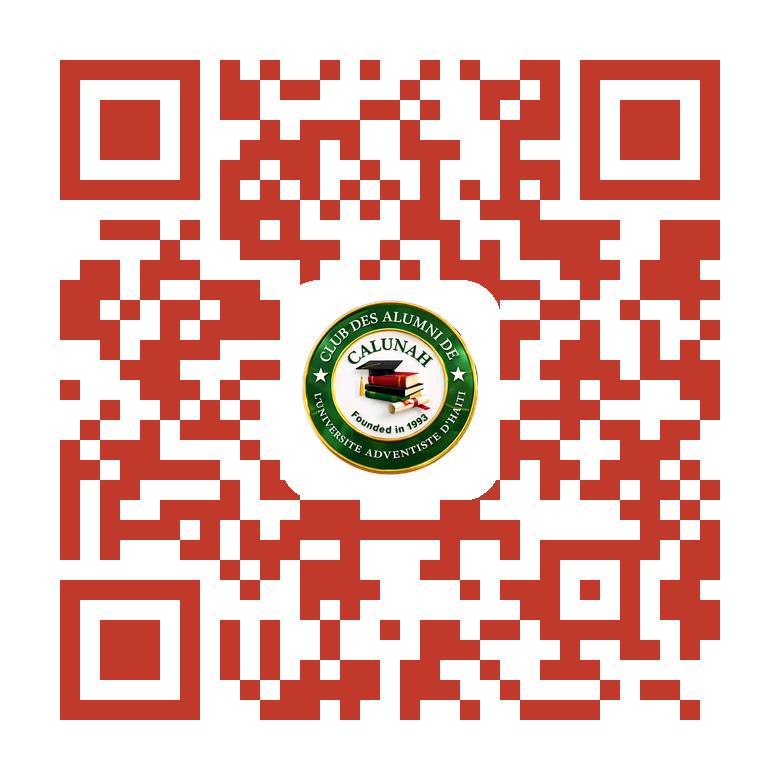
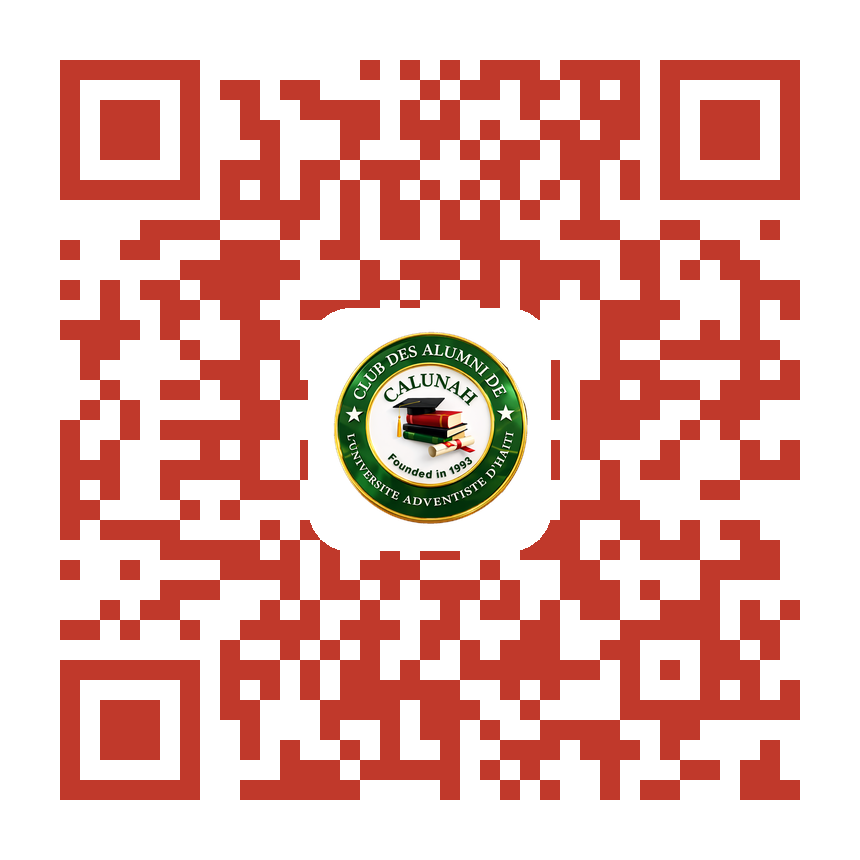
QR codes land on exact action spots + mobile layout fixes
QR REDIRECTS (make giving/ticket-buying frictionless):
- Donate QR → #ways-to-donate (the 4 Ways to Donate block), not section top
- Tickets QR → #buy-tickets (the price tiers of the first ticketed event)
- buildEvents() tags the first upcoming ticketed event's tier block with
  id="buy-tickets"
- initHashLanding(): when the page opens from a QR/#hash, after dynamic
  content builds it smooth-scrolls there (navbar-offset) and briefly
  highlights the target so visitors see exactly where to act
- Regenerated both QR PNGs to the new precise URLs

MOBILE FIXES:
- Recurring donation buttons (Zelle/PayPal/Card) were overflowing on phones
  due to white-space:nowrap + long email — now full-width, centered, wrapping
- Verified at 390px: no page overflow; all grids (donate, tickets, QR,
  membership, values, footer, contact) fit within the viewport

diff --git a/js/main.js b/js/main.js
@@ -837,6 +837,11 @@ function buildEvents() {
   const grid = qs('#events-grid');
   if (!grid) return;
 
+  // The first upcoming event that has tickets gets id="buy-tickets" so the
+  // "Buy Tickets" QR code / links can jump straight to its price options.
+  const firstTicketed = CALUNAH_CONFIG.events.find(e => e.upcoming && e.tickets && e.tickets.length);
+  const firstTicketedId = firstTicketed ? firstTicketed.id : null;
+
   // Uses CSS classes: .event-card, .event-flyer (container), .event-info, .event-title,
   //                   .event-meta, .event-desc, .event-tags, .event-tag,
   //                   .event-full-info, .event-actions, .event-category
@@ -872,7 +877,7 @@ function buildEvents() {
 
         <!-- Ticket tiers for upcoming events (auto-generated when tickets exist) -->
         ${ev.upcoming && ev.tickets && ev.tickets.length ? `
-        <div class="event-tickets">
+        <div class="event-tickets"${ev.id === firstTicketedId ? ' id="buy-tickets"' : ''}>
           <div class="et-heading"><i class="fas fa-ticket-alt"></i> Get Your Tickets</div>
           <div class="et-tiers">
             ${ev.tickets.map(t => {
@@ -1956,6 +1961,23 @@ function initSmoothScroll() {
     const top = target.getBoundingClientRect().top + window.scrollY - 80;
     window.scrollTo({ top, behavior: 'smooth' });
   });
+}
+
+/* When the page is opened with a #hash (e.g. from a QR code), scroll to that
+   target AFTER dynamic content is built, offset for the fixed navbar, and
+   briefly highlight it so the visitor sees exactly where to act. */
+function initHashLanding() {
+  const hash = window.location.hash;
+  if (!hash || hash.length < 2) return;
+  // Wait for dynamic sections (events/tickets) to render, then scroll
+  setTimeout(() => {
+    const target = qs(hash);
+    if (!target) return;
+    const top = target.getBoundingClientRect().top + window.scrollY - 80;
+    window.scrollTo({ top, behavior: 'smooth' });
+    target.classList.add('hash-highlight');
+    setTimeout(() => target.classList.remove('hash-highlight'), 2200);
+  }, 900);
 }
 
 
@@ -3074,6 +3096,9 @@ document.addEventListener('DOMContentLoaded', async () => {
 
   /* Language switcher */
   initLanguageSwitcher();
+
+  /* If arrived via a #hash (e.g. QR code), scroll to it after content builds */
+  initHashLanding();
 
   /* Done */
   console.log(

diff --git a/css/style.css b/css/style.css
@@ -463,6 +463,9 @@ img{max-width:100%;display:block} a{text-decoration:none;color:inherit} ul{list-
 /* Pulse when a filter is auto-applied from an event's "View Photos" button */
 @keyframes gfFlash{0%,100%{box-shadow:0 0 0 0 rgba(201,162,39,.6)}50%{box-shadow:0 0 0 8px rgba(201,162,39,0)}}
 .gf-btn.gf-flash{animation:gfFlash 1.2s ease-out;border-color:var(--gold)}
+/* Highlight a section the visitor was sent to via QR / hash link */
+@keyframes hashGlow{0%{box-shadow:0 0 0 0 rgba(201,162,39,.55)}100%{box-shadow:0 0 0 22px rgba(201,162,39,0)}}
+.hash-highlight{animation:hashGlow 2.2s ease-out;border-radius:16px}
 .gallery-grid{columns:4;column-gap:14px}
 .gallery-grid.gallery-empty{columns:1}
 .gallery-item{break-inside:avoid;margin-bottom:14px;border-radius:var(--radius);overflow:hidden;position:relative;cursor:pointer;background:var(--green-pale);will-change:transform}
@@ -1138,6 +1141,9 @@ img{max-width:100%;display:block} a{text-decoration:none;color:inherit} ul{list-
   .donor-cta-box .btn-gold{align-self:center}
   .recurring-wrap{padding:2rem 1.5rem}
   .recurring-ctas{flex-direction:column}
+  /* Recurring payment buttons: full-width, wrap long text (e.g. Zelle email) */
+  .rec-btn-zelle,.rec-btn-paypal,.rec-btn-stripe{width:100%;justify-content:center;white-space:normal;text-align:center;padding:.8rem 1rem;flex-wrap:wrap}
+  .rec-phone{width:100%;text-align:center;margin-top:.15rem}
   .campus-strip{grid-template-columns:repeat(2,1fr)}
   .work-impact-bar{flex-direction:column;padding:1.5rem}
   .membership-benefits-bar{gap:.75rem}

diff --git a/index.html b/index.html
@@ -59,7 +59,7 @@
   <link href="https://fonts.googleapis.com/css2?family=Playfair+Display:ital,wght@0,400;0,700;0,900;1,400;1,700&family=Montserrat:wght@300;400;500;600;700;800&family=Cormorant+Garamond:ital,wght@0,400;0,600;1,400;1,600&display=swap" rel="stylesheet">
   <link rel="stylesheet" href="https://cdnjs.cloudflare.com/ajax/libs/font-awesome/6.5.0/css/all.min.css">
   <link rel="stylesheet" href="https://unpkg.com/aos@2.3.1/dist/aos.css">
-  <link rel="stylesheet" href="css/style.css?v=20260601r">
+  <link rel="stylesheet" href="css/style.css?v=20260601s">
 </head>
 <body>
 
@@ -1407,8 +1407,8 @@
 <script src="https://unpkg.com/aos@2.3.1/dist/aos.js"></script>
 <!-- PDF.js — renders the magazine pages for the flipbook reader -->
 <script src="https://cdnjs.cloudflare.com/ajax/libs/pdf.js/3.11.174/pdf.min.js"></script>
-<script src="js/flipbook.js?v=20260601r"></script>
-<script src="js/main.js?v=20260601r"></script>
+<script src="js/flipbook.js?v=20260601s"></script>
+<script src="js/main.js?v=20260601s"></script>
 <!-- Donorbox widget — powers the "Donate Online" card -->
 <script src="https://donorbox.org/widget.js" paypalExpress="false"></script>
 
